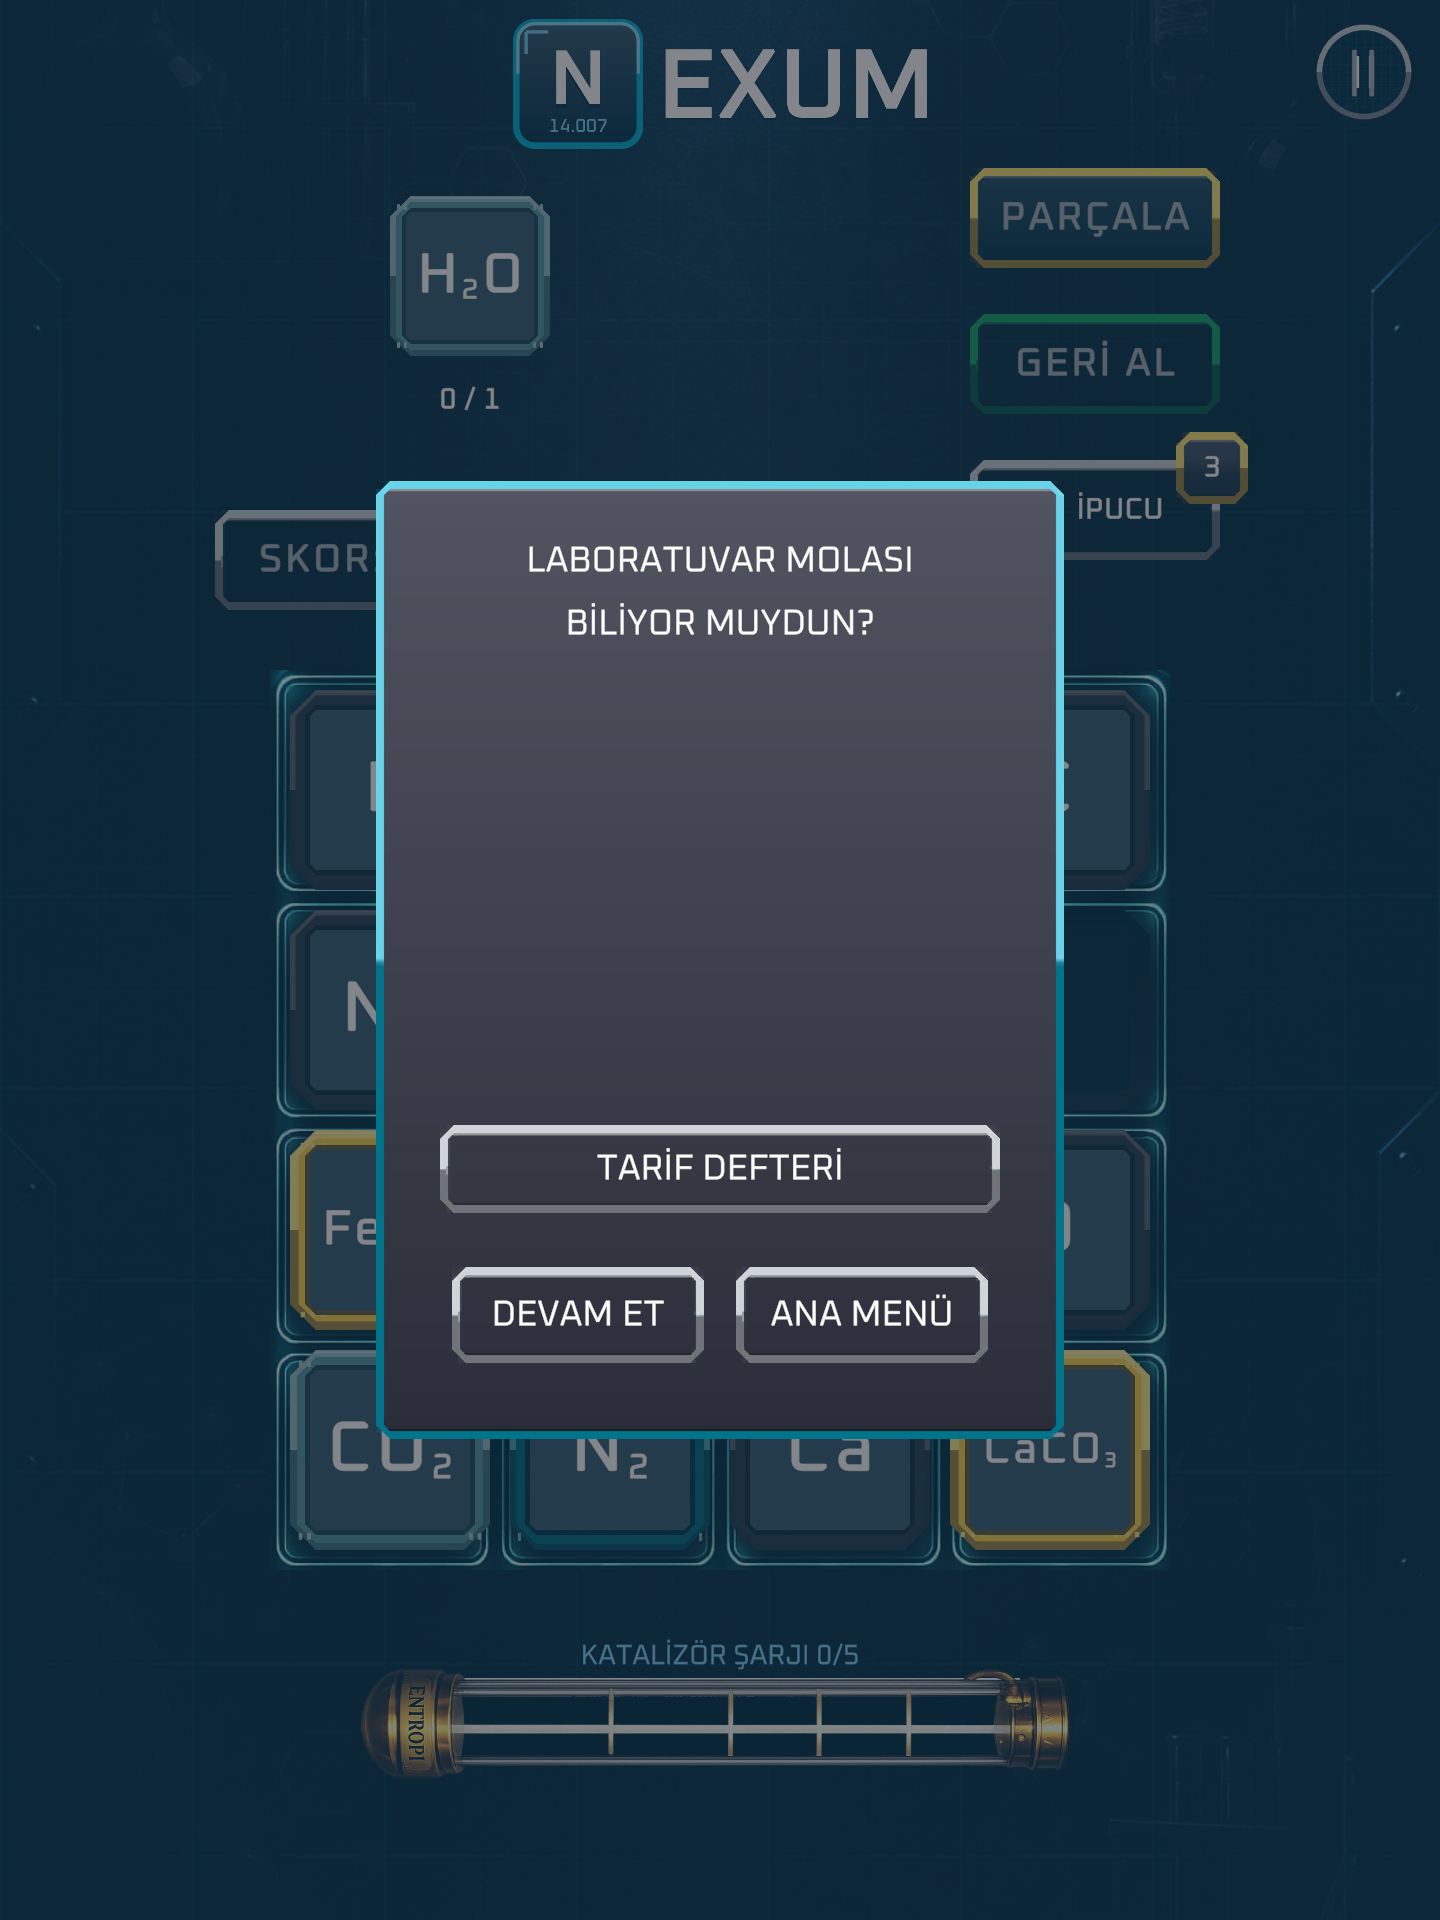
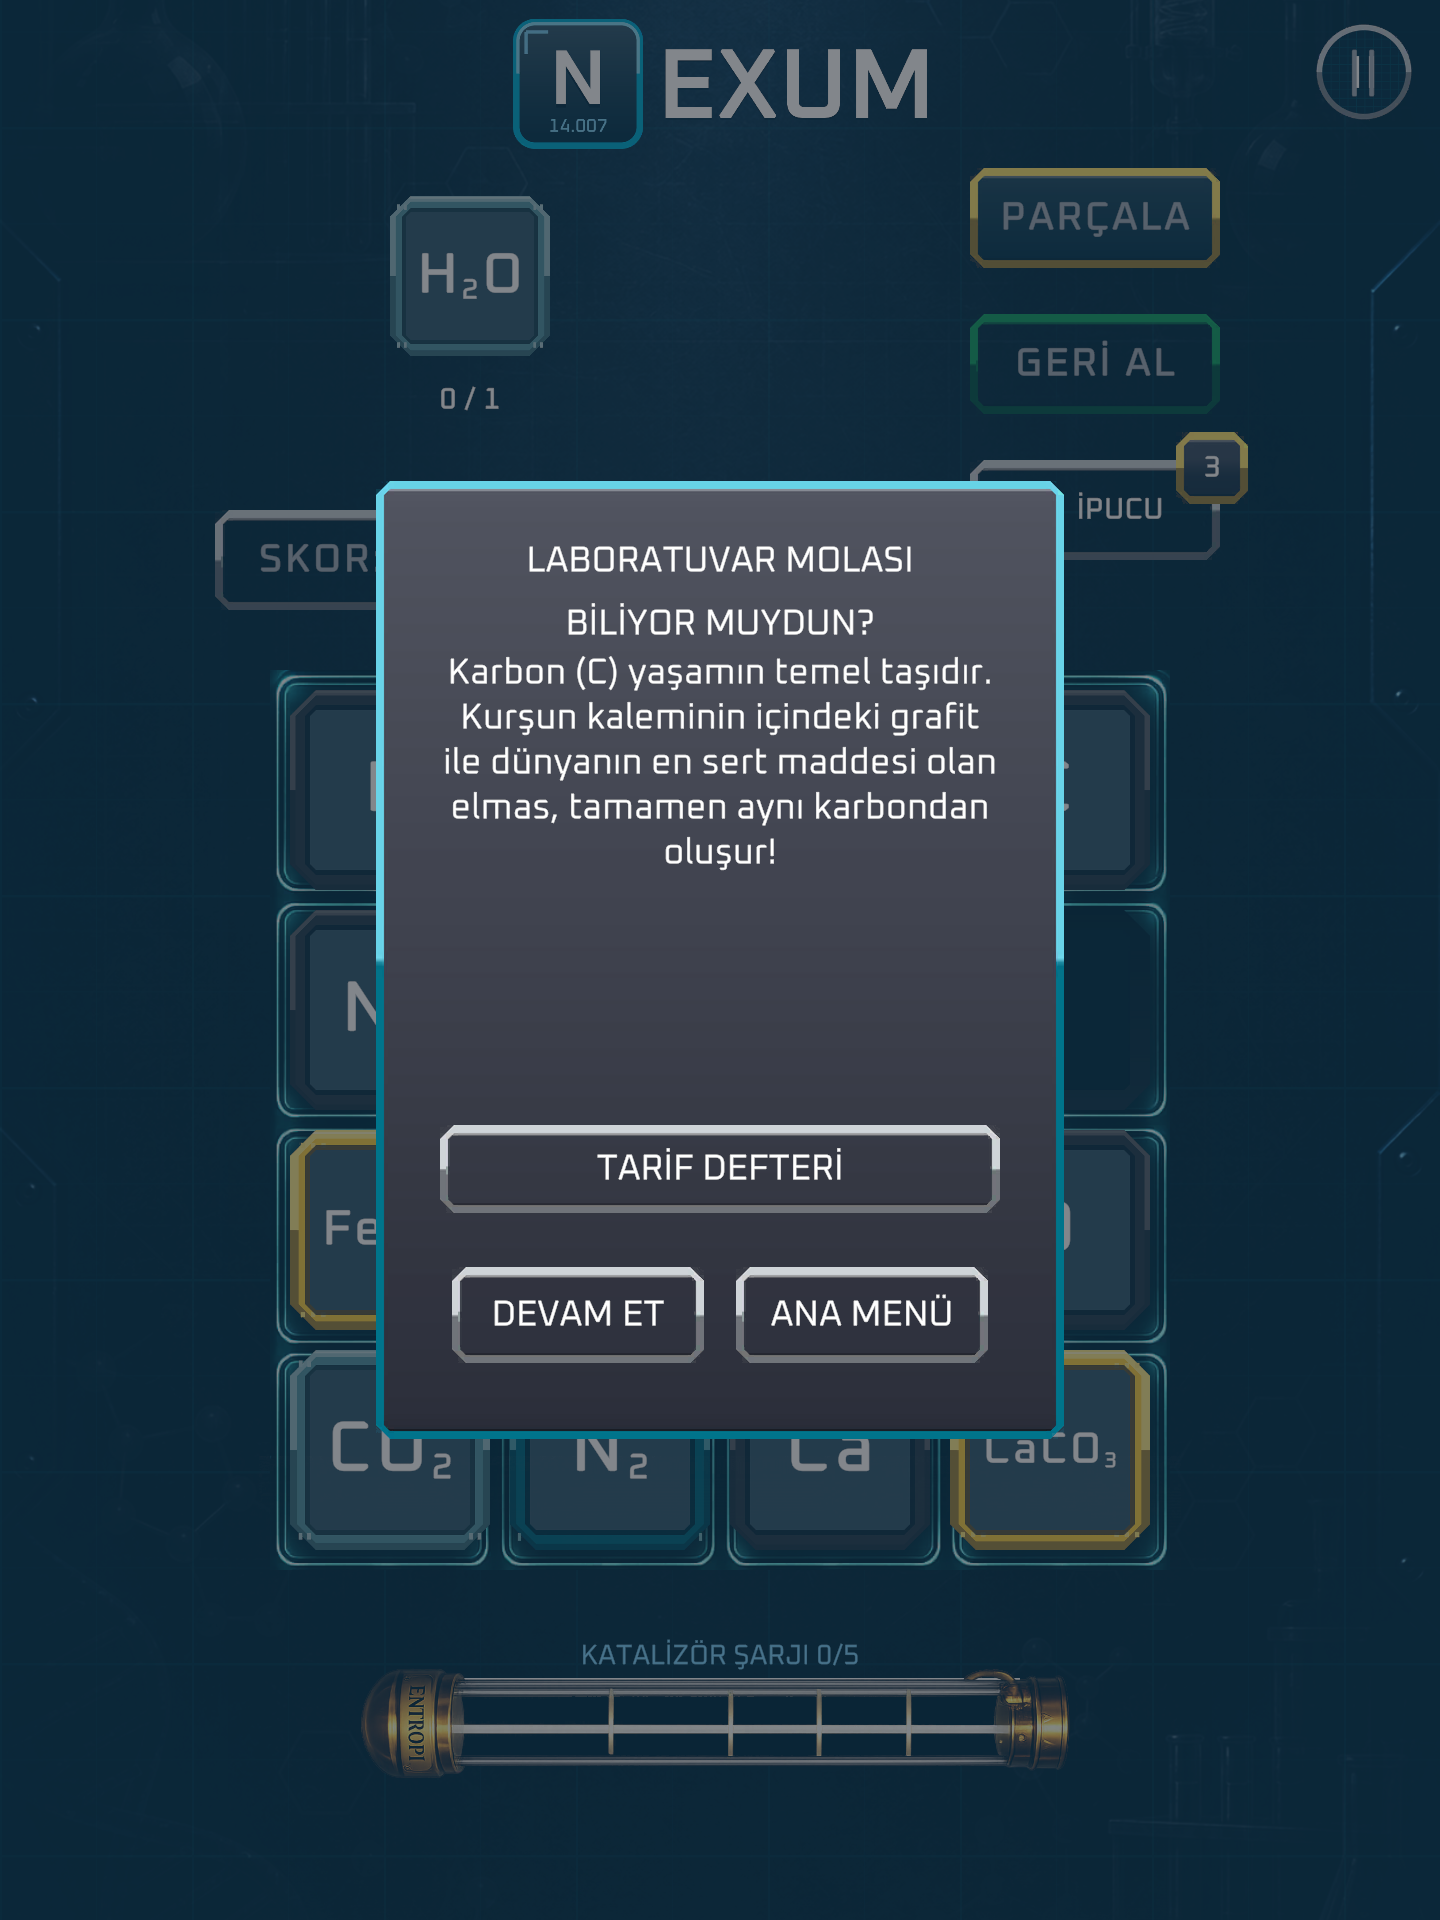
1.5: cihaz goruntuleri - aciklamali cevap paneli ve bilgi karti iki durum

Changed region(s): [[0.3125, 0.3438, 0.6875, 0.4688]]

diff --git a/Assets/Editor/NexumDeviceShot.cs b/Assets/Editor/NexumDeviceShot.cs
@@ -46,6 +46,11 @@ public static class NexumDeviceShot
         public bool tahtayiDoldur;
         public bool ansiklopediyiDoldur;
         public bool geriBildirim;
+
+        // 1.5: quiz paneli iki hâlde gösterilir (soru / açıklamalı cevap) ve
+        // duraklat kartı bilgi kartları kapalıyken de alınır.
+        public int quiz;                  // 0 yok, 1 soru, 2 açıklamalı cevap
+        public bool bilgiKartlariKapali;
     }
 
     public static readonly Ekran[] Ekranlar =
@@ -110,7 +115,14 @@ public static class NexumDeviceShot
                     kapa = new[] { "PausePanel", "GameOverPanel", "LevelCompletePanel",
                                    "TutorialPanel", "HypothesisPanel", "UndoPanel", "FocusPanel",
                                    "AssistantPanel" },
-                    tahtayiDoldur = true },
+                    tahtayiDoldur = true, quiz = 1 },
+
+        new Ekran { ad = "quiz-aciklama", scene = "Assets/Scenes/Game.unity",
+                    ac = new[] { "QuizPanel" },
+                    kapa = new[] { "PausePanel", "GameOverPanel", "LevelCompletePanel",
+                                   "TutorialPanel", "HypothesisPanel", "UndoPanel", "FocusPanel",
+                                   "AssistantPanel" },
+                    tahtayiDoldur = true, quiz = 2 },
 
         new Ekran { ad = "duraklat", scene = "Assets/Scenes/Game.unity",
                     ac = new[] { "PausePanel" },
@@ -118,6 +130,13 @@ public static class NexumDeviceShot
                                    "TutorialPanel", "HypothesisPanel", "UndoPanel", "FocusPanel",
                                    "AssistantPanel" },
                     tahtayiDoldur = true },
+
+        new Ekran { ad = "duraklat-bilgi-kapali", scene = "Assets/Scenes/Game.unity",
+                    ac = new[] { "PausePanel" },
+                    kapa = new[] { "QuizPanel", "GameOverPanel", "LevelCompletePanel",
+                                   "TutorialPanel", "HypothesisPanel", "UndoPanel", "FocusPanel",
+                                   "AssistantPanel" },
+                    tahtayiDoldur = true, bilgiKartlariKapali = true },
     };
 
     [MenuItem("NEXUM/Gerçek Ekran Görüntüsü Al")]
@@ -142,6 +161,8 @@ public static class NexumDeviceShot
                 if (e.tahtayiDoldur) { TahtayiDoldur(scene); HedefleriDoldur(); }
                 if (e.ansiklopediyiDoldur) AnsiklopediyiDoldur(canvasGo.transform);
                 if (e.geriBildirim) GeriBildirimiDoldur(canvasGo.transform);
+                if (e.quiz > 0) QuiziDoldur(canvasGo.transform, e.quiz == 2);
+                BilgiKartiniAyarla(canvasGo.transform, e.bilgiKartlariKapali);
 
                 string yol = $"{OutDir}/{e.ad}_{boy.x}x{boy.y}.png";
                 if (Cek(canvasGo, boy, yol)) alinan++;
@@ -250,6 +271,90 @@ public static class NexumDeviceShot
             ? ReactionText.NoReactionColored("N", "Cl", tema.palette.textSecondary, tema.palette.warning)
             : ReactionText.NoReaction("N", "Cl");
         satir.text = denklem + "   " + Loc.Get(CodeStrings.FeedbackNoReaction);
+    }
+
+    /// <summary>
+    /// Quiz paneli çalışma zamanında doluyor; edit mode'da soru ve şıklar
+    /// "New Text" görünüyordu. İki hâl de GERÇEK veriden kurulur:
+    ///  - soru hâli: bankadaki EN UZUN soru (en kötü durum)
+    ///  - cevap hâli: EN UZUN açıklama + şıklar gizli + kutu 800x700
+    ///    (UIManager.ProvideFeedbackRoutine ile aynı düzen, metin
+    ///     UIManager.BuildCorrectFeedback ile aynı kaynak)
+    /// </summary>
+    public static void QuiziDoldur(Transform canvas, bool cevapli)
+    {
+        UIManager ui = Object.FindObjectOfType<UIManager>(true);
+        if (ui == null) { Debug.LogError($"{Tag}: UIManager yok"); return; }
+
+        TMP_Text soru = ui.questionTextUI;
+        if (soru == null) { Debug.LogError($"{Tag}: questionTextUI atanmamış"); return; }
+
+        List<ChemistryQuiz> banka = AssetDatabase.FindAssets("t:ChemistryQuiz")
+            .Select(AssetDatabase.GUIDToAssetPath)
+            .Select(AssetDatabase.LoadAssetAtPath<ChemistryQuiz>)
+            .Where(q => q != null)
+            .ToList();
+        if (banka.Count == 0) { Debug.LogError($"{Tag}: quiz bankası boş"); return; }
+
+        soru.spriteAsset = Resources.Load<TMP_SpriteAsset>(ReactionText.SpriteAssetResource);
+
+        if (!cevapli)
+        {
+            ChemistryQuiz q = banka.OrderByDescending(x => x.questionText.Length).First();
+            soru.text = q.questionText;
+
+            for (int i = 0; i < ui.optionTexts.Length && i < q.options.Length; i++)
+            {
+                if (ui.optionTexts[i] != null) ui.optionTexts[i].text = q.options[i];
+            }
+            Debug.Log($"{Tag}_QUIZ: soru hâli -> {q.name} ({q.questionText.Length} krk)");
+            return;
+        }
+
+        // --- açıklamalı cevap hâli
+        ChemistryQuiz enUzun = banka
+            .OrderByDescending(x => Loc.Get(x.ExplanationKey).Length)
+            .First();
+
+        foreach (GameObject btn in ui.optionButtonObjects)
+        {
+            if (btn != null) btn.SetActive(false);
+        }
+
+        RectTransform rect = soru.rectTransform;
+        rect.sizeDelta = new Vector2(rect.sizeDelta.x, 700f);
+        rect.anchoredPosition = new Vector2(rect.anchoredPosition.x, 0f);
+
+        string metin = Loc.Format(CodeStrings.QuizCorrectExplained,
+                                  Loc.Get(CodeStrings.QuizCorrect),
+                                  Loc.Get(enUzun.ExplanationKey),
+                                  Loc.Get(CodeStrings.QuizContinueHint));
+        soru.text = metin;
+
+        Debug.Log($"{Tag}_QUIZ: cevap hâli -> {enUzun.name} " +
+                  $"(açıklama {Loc.Get(enUzun.ExplanationKey).Length} krk)");
+    }
+
+    /// <summary>
+    /// Bilgi kartı: bilgi metni de çalışma zamanında doluyor. Ayar kapalı
+    /// istendiğinde kart parçaları UIManager'ın yaptığı gibi gizlenir.
+    /// </summary>
+    public static void BilgiKartiniAyarla(Transform canvas, bool kapali)
+    {
+        UIManager ui = Object.FindObjectOfType<UIManager>(true);
+        if (ui == null) return;
+
+        if (ui.factTextUI != null && ui.allFacts != null && ui.allFacts.Count > 0)
+        {
+            ChemistryFact f = ui.allFacts.FirstOrDefault(x => x != null);
+            if (f != null) ui.factTextUI.text = f.factText;
+        }
+
+        if (ui.flashcardObjects == null) return;
+        foreach (GameObject go in ui.flashcardObjects)
+        {
+            if (go != null) go.SetActive(!kapali);
+        }
     }
 
     /// <summary>
